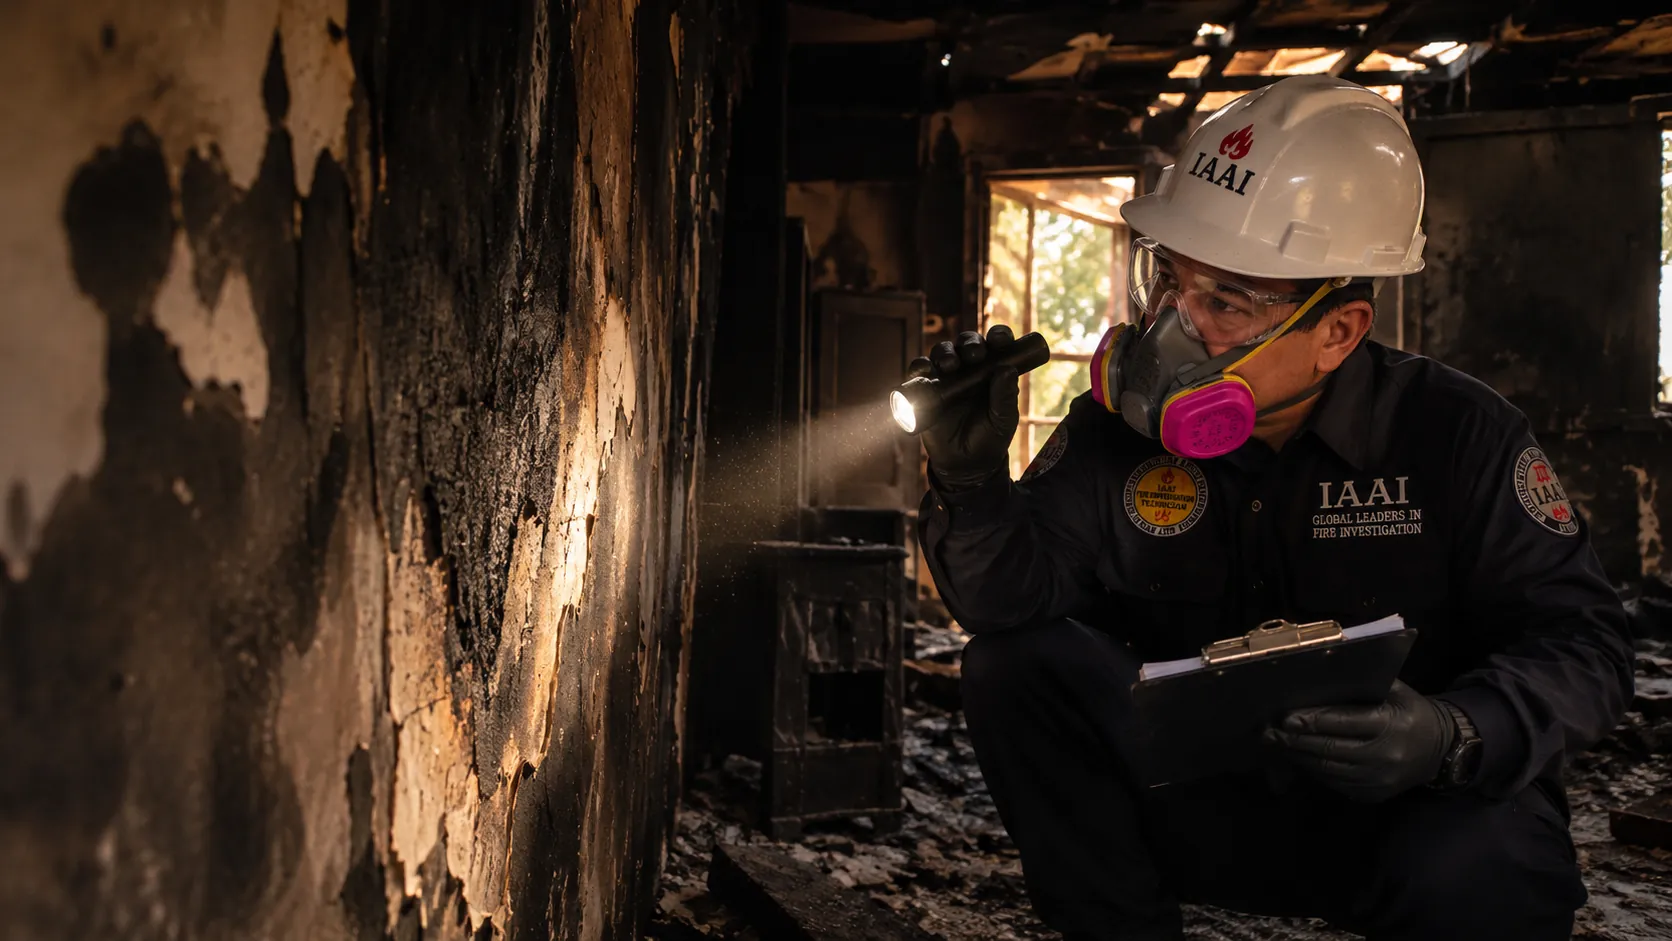
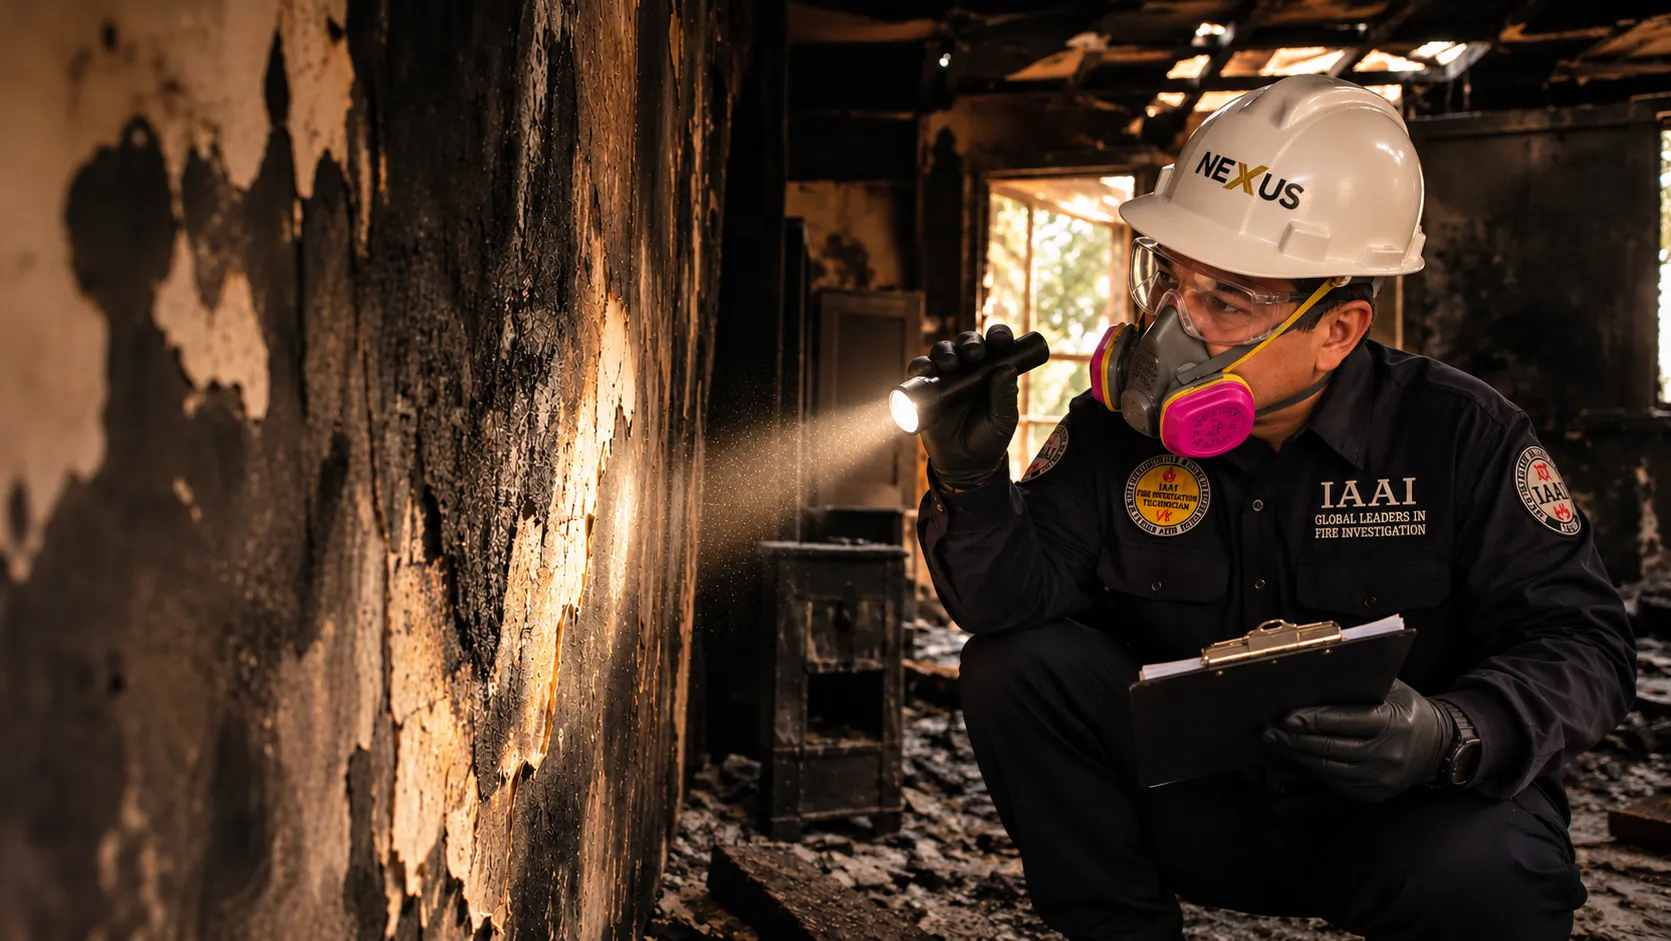
Correcciones de Domingo (17-11): método sin "responsabilidad", Formación para investigadores formados y fotos nuevas
- Paso 2 del método: "el origen y la causa del incendio", sin "responsabilidad" (es, en, pt).
- Formación especializada orientada a investigadores y equipos ya formados, con experiencia.
- Foto de terreno con el logo de NEXUS en el casco; se quita la escena de la reunión.
- Cierre de Método: franja de cuatro escenas con los marcadores 1 a 4 en orden.
- Cierre de Perfil: tres fotos de incendio enviadas por Domingo, en vertical.
- Textos alternativos de todas las fotos en los tres idiomas.

diff --git a/src/data/nexus.ts b/src/data/nexus.ts
@@ -103,14 +103,23 @@ const ledgerMeta: Tuple<{ year: string; since?: boolean; logo?: string }, 8> = [
   { year: "", logo: "/logos/iaai-fit.webp" },
 ];
 
-// Fotos entregadas por Aaron el 10-11; aparentan ser generadas con IA. Aaron pidió usarlas todas y sin el rótulo
-// "Imagen referencial". Las dos en que aparece Domingo requieren su aprobación antes de publicar el sitio.
-// Domingo no quiere fotos reales de Bomberos (12-11).
+// Escenas generadas con IA, entregadas por Aaron (10-11 y 18-11), sin el rótulo "Imagen referencial". Domingo aparece
+// en la portada, en el retrato de Perfil y en una sola escena, la de terreno con el casco de NEXUS, que a él le gustó.
+// La de la reunión se quitó porque no se parecía a él (18-11). Las tres de incendio son fotos reales que envió Domingo
+// (17-11), pasadas por IA casi sin cambios: el lugar se reconoce y en una salen bomberos. Aaron decidió usarlas así (18-11).
 const photoFiles = {
-  terreno: { src: "/fotos/terreno.webp", width: 1672, height: 941 },
-  reunion: { src: "/fotos/reunion.webp", width: 1672, height: 941 },
+  terreno: { src: "/fotos/terreno.webp", width: 1671, height: 941 },
   evidencia: { src: "/fotos/evidencia.webp", width: 1672, height: 941 },
   informe: { src: "/fotos/informe.webp", width: 1672, height: 941 },
+  // Franja al cierre de Método (18-11): escenas generadas, sin personas, con los marcadores 1 a 4 en orden.
+  escena: { src: "/fotos/escena.webp", width: 1671, height: 941 },
+  marcador: { src: "/fotos/marcador.webp", width: 1672, height: 941 },
+  marcador3: { src: "/fotos/marcador3.webp", width: 1670, height: 941 },
+  tablero: { src: "/fotos/tablero.webp", width: 1671, height: 941 },
+  // Cierre de Perfil (18-11): fotos reales de Domingo pasadas por IA, en vertical. Aaron las usa tal cual.
+  incendio1: { src: "/fotos/incendio-1.webp", width: 1086, height: 1448 },
+  incendio2: { src: "/fotos/incendio-2.webp", width: 1086, height: 1448 },
+  incendio3: { src: "/fotos/incendio-3.webp", width: 1086, height: 1448 },
 };
 type PhotoId = keyof typeof photoFiles;
 
@@ -353,10 +362,10 @@ const es: Texts = {
     formacion: {
       cta: "Solicitar formación",
       short: "Formación especializada",
-      situation: "Mi equipo necesita formarse en investigación de incendios",
+      situation: "Somos investigadores con experiencia y queremos llevar nuestro trabajo a otro nivel",
       name: "Formación especializada",
-      text: "Capacitaciones en **investigación de incendios**, análisis de evidencia e informes.",
-      includes: ["Investigación de incendios según NFPA 921", "Análisis de evidencia", "El informe como prueba pericial"],
+      text: "Perfeccionamiento para **investigadores y equipos ya formados**: método, evidencia e informes, desde la experiencia de casos reales.",
+      includes: ["Aplicación rigurosa de NFPA 921", "Análisis crítico de evidencia", "El informe como prueba pericial"],
     },
   },
   // Los siete pasos del método científico de NFPA 921 (edición 2024), con los nombres que dio Domingo (12-11).
@@ -369,7 +378,7 @@ const es: Texts = {
     stepsLabel: "Los siete pasos del método científico según NFPA 921",
     steps: [
       { name: "Reconocer la necesidad", text: "Ocurrió un incendio y **su causa debe determinarse**." },
-      { name: "Definir el problema", text: "Se precisa **qué debe resolverse** y cómo abordarlo: origen, causa o responsabilidad." },
+      { name: "Definir el problema", text: "Se precisa **qué debe resolverse** y cómo abordarlo: el origen y la causa del incendio." },
       { name: "Recopilar datos", text: "Se reúnen **hechos verificables**: observación del sitio, registros, testimonios y ensayos." },
       { name: "Analizar los datos", text: "Los datos se interpretan **con fundamento científico**, a partir de conocimiento, formación y experiencia." },
       { name: "Desarrollar hipótesis", text: "A partir del análisis se formulan **hipótesis que expliquen** lo observado." },
@@ -434,8 +443,14 @@ const es: Texts = {
   },
   photoAlts: {
     terreno:
-      "Domingo Soto Gamé, con casco IAAI, lentes, respirador y guantes, inspecciona con una linterna un muro calcinado en una vivienda quemada, con una tabla de notas en la mano",
-    reunion: "Domingo Soto Gamé explica un informe con fotografías a un abogado en una oficina",
+      "Domingo Soto Gamé, con casco de NEXUS, lentes, respirador y guantes, inspecciona con una linterna un muro calcinado en una vivienda quemada, con una tabla de notas en la mano",
+    escena: "Casco de NEXUS, respirador, guantes y linterna sobre una mesa en una habitación incendiada, junto al marcador de evidencia número 1",
+    marcador: "Marcador de evidencia número 2 y una escala junto a un cable quemado al pie de un muro calcinado",
+    marcador3: "Marcador de evidencia número 3 en el piso de una habitación calcinada, junto a un mueble quemado",
+    tablero: "Tablero eléctrico calcinado y abierto, con el marcador de evidencia número 4 y una escala al pie",
+    incendio1: "Casa de dos pisos envuelta en llamas de noche, con una columna de humo sobre los cables de la calle",
+    incendio2: "Incendio nocturno de una casa antigua, con mangueras de bomberos sobre la calle mojada",
+    incendio3: "Bomberos con una escalera frente a una casa en llamas, de noche",
     evidencia:
       "Muro con un patrón de quemadura en forma de V sobre una caja eléctrica dañada, junto a una cinta métrica y un marcador de evidencia numerado",
     informe: "Manos revisando un informe pericial impreso con un destacador, junto a una lámpara de escritorio",
@@ -560,10 +575,10 @@ const en: Texts = {
     formacion: {
       cta: "Request training",
       short: "Specialized training",
-      situation: "My team needs training in fire investigation",
+      situation: "We're experienced investigators and want to take our work to the next level",
       name: "Specialized training",
-      text: "Training in **fire investigation**, evidence analysis and report writing.",
-      includes: ["Fire investigation under NFPA 921", "Evidence analysis", "The report as expert evidence"],
+      text: "Advanced training for **experienced investigators and teams**: method, evidence and reports, drawing on real casework.",
+      includes: ["Rigorous application of NFPA 921", "Critical evidence analysis", "The report as expert evidence"],
     },
   },
   // Nombres oficiales de los pasos del método científico en NFPA 921 (capítulo 4).
@@ -575,7 +590,7 @@ const en: Texts = {
     stepsLabel: "The seven steps of the scientific method under NFPA 921",
     steps: [
       { name: "Recognize the Need", text: "A fire has occurred and **its cause must be determined**." },
-      { name: "Define the Problem", text: "The investigator establishes **what must be resolved** and how to approach it: origin, cause or responsibility." },
+      { name: "Define the Problem", text: "The investigator establishes **what must be resolved** and how to approach it: the origin and cause of the fire." },
       { name: "Collect Data", text: "**Verifiable facts** are gathered: scene observation, records, witness statements and testing." },
       { name: "Analyze the Data", text: "The data are interpreted **on a scientific basis**, drawing on knowledge, training and experience." },
       { name: "Develop Hypotheses", text: "Based on the analysis, **hypotheses that explain** the observations are formulated." },
@@ -647,8 +662,14 @@ const en: Texts = {
   },
   photoAlts: {
     terreno:
-      "Domingo Soto Gamé, wearing an IAAI hard hat, safety glasses, a respirator and gloves, uses a flashlight to inspect a charred wall in a burned house, clipboard in hand",
-    reunion: "Domingo Soto Gamé walks an attorney through a report with photographs in an office",
+      "Domingo Soto Gamé, wearing a NEXUS hard hat, safety glasses, a respirator and gloves, uses a flashlight to inspect a charred wall in a burned house, clipboard in hand",
+    escena: "A NEXUS hard hat, respirator, gloves and flashlight on a table in a burned room, next to evidence marker number 1",
+    marcador: "Evidence marker number 2 and a scale next to a burned cable at the base of a charred wall",
+    marcador3: "Evidence marker number 3 on the floor of a charred room, next to burned shelving",
+    tablero: "An open, charred electrical panel with evidence marker number 4 and a scale below it",
+    incendio1: "A two-story house engulfed in flames at night, with a column of smoke above the street wires",
+    incendio2: "A night fire in an old house, with fire hoses across the wet street",
+    incendio3: "Firefighters carrying a ladder in front of a burning house at night",
     evidencia:
       "Wall with a V-shaped burn pattern above a damaged electrical box, next to a measuring tape and a numbered evidence marker",
     informe: "Hands reviewing a printed expert report with a highlighter, next to a desk lamp",
@@ -774,10 +795,10 @@ const pt: Texts = {
     formacion: {
       cta: "Solicitar capacitação",
       short: "Capacitação especializada",
-      situation: "Minha equipe precisa se capacitar em investigação de incêndios",
+      situation: "Somos investigadores com experiência e queremos levar nosso trabalho a um novo patamar",
       name: "Capacitação especializada",
-      text: "Capacitações em **investigação de incêndios**, análise de evidências e elaboração de laudos.",
-      includes: ["Investigação de incêndios segundo a NFPA 921", "Análise de evidências", "O laudo como prova pericial"],
+      text: "Aperfeiçoamento para **investigadores e equipes já formados**: método, evidências e laudos, a partir da experiência em casos reais.",
+      includes: ["Aplicação rigorosa da NFPA 921", "Análise crítica de evidências", "O laudo como prova pericial"],
     },
   },
   method: {
@@ -788,7 +809,7 @@ const pt: Texts = {
     stepsLabel: "As sete etapas do método científico segundo a NFPA 921",
     steps: [
       { name: "Reconhecer a necessidade", text: "Ocorreu um incêndio e **sua causa precisa ser determinada**." },
-      { name: "Definir o problema", text: "Define-se **o que deve ser resolvido** e como abordá-lo: origem, causa ou responsabilidade." },
+      { name: "Definir o problema", text: "Define-se **o que deve ser resolvido** e como abordá-lo: a origem e a causa do incêndio." },
       { name: "Coletar dados", text: "Reúnem-se **fatos verificáveis**: observação do local, registros, depoimentos e ensaios." },
       { name: "Analisar os dados", text: "Os dados são interpretados **com fundamento científico**, a partir de conhecimento, formação e experiência." },
       { name: "Desenvolver hipóteses", text: "A partir da análise, formulam-se **hipóteses que expliquem** o que foi observado." },
@@ -851,8 +872,14 @@ const pt: Texts = {
   },
   photoAlts: {
     terreno:
-      "Domingo Soto Gamé, com capacete da IAAI, óculos, respirador e luvas, inspeciona com uma lanterna uma parede carbonizada em uma casa incendiada, com uma prancheta na mão",
-    reunion: "Domingo Soto Gamé explica um laudo com fotografias a um advogado em um escritório",
+      "Domingo Soto Gamé, com capacete da NEXUS, óculos, respirador e luvas, inspeciona com uma lanterna uma parede carbonizada em uma casa incendiada, com uma prancheta na mão",
+    escena: "Capacete da NEXUS, respirador, luvas e lanterna sobre uma mesa em um cômodo incendiado, ao lado do marcador de evidência número 1",
+    marcador: "Marcador de evidência número 2 e uma escala ao lado de um cabo queimado na base de uma parede carbonizada",
+    marcador3: "Marcador de evidência número 3 no chão de um cômodo carbonizado, ao lado de um móvel queimado",
+    tablero: "Quadro elétrico carbonizado e aberto, com o marcador de evidência número 4 e uma escala logo abaixo",
+    incendio1: "Casa de dois andares tomada pelas chamas à noite, com uma coluna de fumaça sobre os fios da rua",
+    incendio2: "Incêndio noturno em uma casa antiga, com mangueiras de bombeiros na rua molhada",
+    incendio3: "Bombeiros com uma escada diante de uma casa em chamas, à noite",
     evidencia:
       "Parede com um padrão de queima em forma de V sobre uma caixa elétrica danificada, ao lado de uma trena e de um marcador de evidência numerado",
     informe: "Mãos revisando um laudo pericial impresso com um marca-texto, ao lado de uma luminária de mesa",

diff --git a/src/components/sections/Perfil.tsx b/src/components/sections/Perfil.tsx
@@ -208,12 +208,13 @@ export function Perfil() {
           </div>
         </div>
 
-        {/* Cierre del perfil: el abogado y el investigador en una misma conversación */}
-        <PhotoBand
-          {...photos.reunion}
-          position="58% 35%"
-          className="mt-[clamp(3rem,7vw,6rem)] aspect-[4/3] w-full sm:aspect-[16/9]"
-        />
+        {/* Cierre del perfil (18-11): tres incendios de noche, en vertical y lado a lado, también en celular.
+            Reemplazan la escena de la reunión, en la que aparecía Domingo. */}
+        <div className="mt-[clamp(3rem,7vw,6rem)] grid grid-cols-3 gap-2 sm:gap-4 lg:gap-5">
+          <PhotoBand {...photos.incendio1} position="50% 55%" className="aspect-[3/4]" />
+          <PhotoBand {...photos.incendio2} position="50% 50%" className="aspect-[3/4]" />
+          <PhotoBand {...photos.incendio3} position="50% 50%" className="aspect-[3/4]" />
+        </div>
       </Container>
     </Section>
   );

diff --git a/src/components/sections/Metodo.tsx b/src/components/sections/Metodo.tsx
@@ -177,6 +177,15 @@ export function Metodo() {
             <Pasos />
           </div>
         </div>
+
+        {/* Cierre de la sección (18-11): escenas con los marcadores de evidencia 1 a 4, en orden. Sin texto: adorna.
+            Cuatro en fila en escritorio; en celular y tablet, de a dos. */}
+        <div className="mt-[clamp(3rem,7vw,6rem)] grid grid-cols-2 gap-3 sm:gap-4 lg:grid-cols-4 lg:gap-5">
+          <PhotoBand {...photos.escena} position="30% 70%" className="aspect-[4/3]" />
+          <PhotoBand {...photos.marcador} position="55% 60%" className="aspect-[4/3]" />
+          <PhotoBand {...photos.marcador3} position="65% 55%" className="aspect-[4/3]" />
+          <PhotoBand {...photos.tablero} position="62% 55%" className="aspect-[4/3]" />
+        </div>
       </Container>
     </Section>
   );

diff --git a/src/components/sections/Interseccion.tsx b/src/components/sections/Interseccion.tsx
@@ -306,7 +306,8 @@ export function Interseccion() {
           </div>
         </div>
 
-        {/* La foto de terreno cierra el bloque: el cruce de disciplinas ocurre en el sitio del incendio. */}
+        {/* La foto de terreno cierra el bloque: el cruce de disciplinas ocurre en el sitio del incendio.
+            Versión del 18-11 con el logo de NEXUS en el casco, como pidió Domingo. */}
         <PhotoBand
           {...photos.terreno}
           position="62% 45%"

diff --git a/README.md b/README.md
@@ -94,7 +94,7 @@ El correo llega en español, con el asunto `Consulta web: <quién solicita> · <
 
 ## Pendientes con el cliente
 
-- Logo de NEXUS en SVG y foto original de Domingo en alta resolución.
+- Logo de NEXUS en SVG. La foto original de Domingo en alta resolución llegó el 17-11 (IMG_6028.JPG); falta decidir si reemplaza la de la portada.
+- Que Domingo confirme las tres fotos de incendio del cierre de Perfil (`public/fotos/incendio-1..3.webp`): son fotos reales suyas, el lugar se reconoce y en una salen bomberos.
 - Permiso para usar los logos de IAAI.
 - Cobertura: solo Valdivia o todo Chile.
-- Aprobación de Domingo para las fotos generadas en que aparece él (`public/fotos/terreno.webp` y `reunion.webp`).
